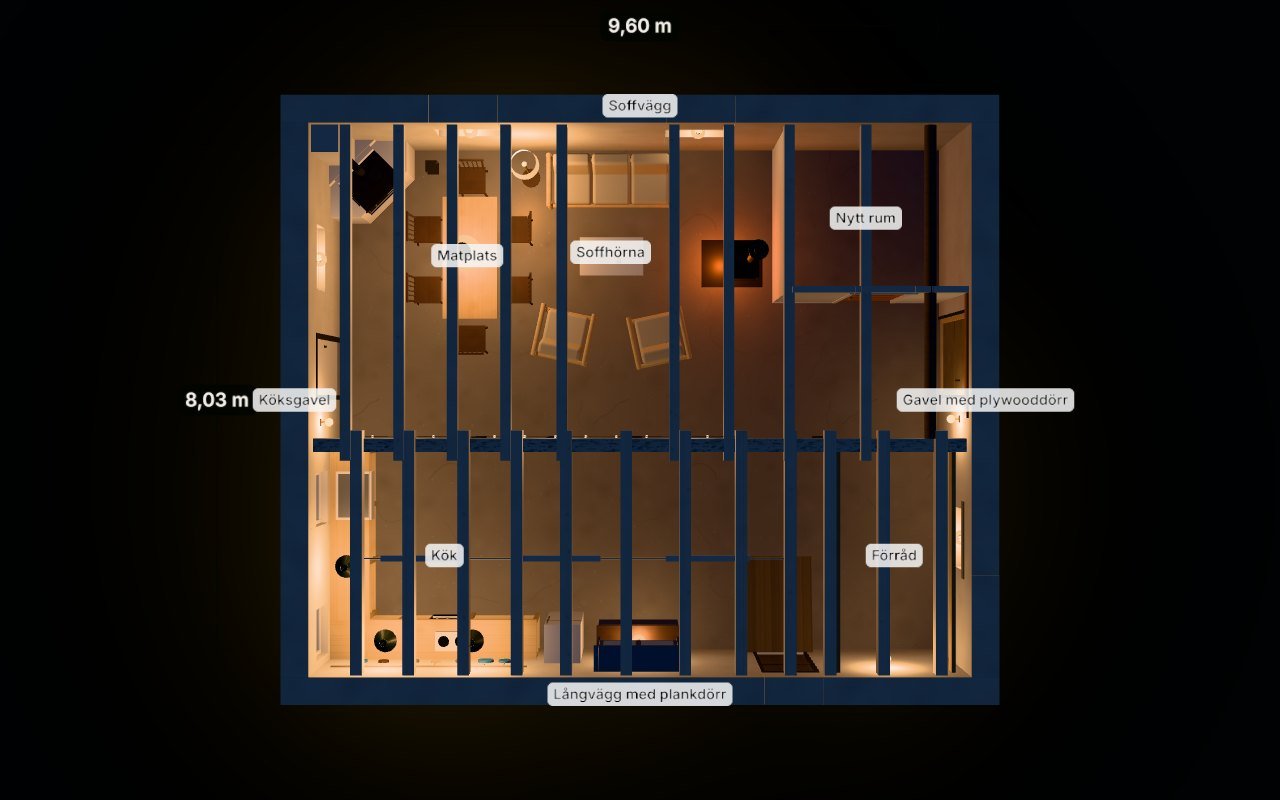
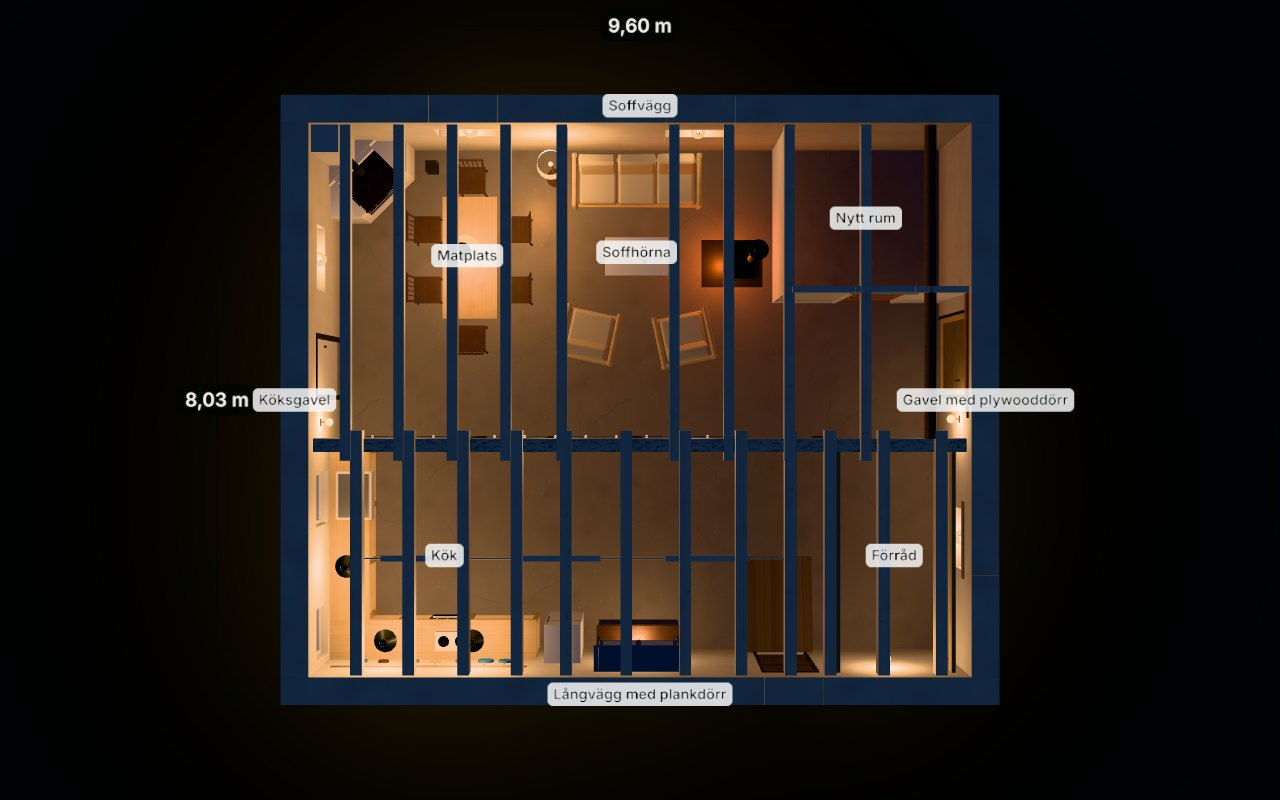
Flytta soffgruppen närmare braskaminen
Soffa, soffbord, fåtöljer och golvlampa står 0,4 m närmare nya rummet.

Claude-Session: https://claude.ai/code/session_01Pv6CpKizXL3M9PiPypFNnz

Changed region(s): [[0.4062, 0.1562, 0.5625, 0.3438], [0.4062, 0.375, 0.5625, 0.4688]]

diff --git a/stallet/src/dimensions.ts b/stallet/src/dimensions.ts
@@ -156,11 +156,11 @@ export const furniture = {
   dining: { x: 2.15, z: 1.8, turn: 90, tableLength: 1.9, tableWidth: 0.85 },
 
   /** Soffa mot soffväggen, soffbord och två fåtöljer vända mot soffan. */
-  sofa: { x: 4.35, z: 0.55, turn: 0, width: 2.05 },
-  coffeeTable: { x: 4.35, z: 1.75, turn: 0 },
+  sofa: { x: 4.75, z: 0.55, turn: 0, width: 2.05 },
+  coffeeTable: { x: 4.75, z: 1.75, turn: 0 },
   armchairs: [
-    { x: 3.6, z: 3.0, turn: 168 },
-    { x: 5.1, z: 3.05, turn: 192 },
+    { x: 4.0, z: 3.0, turn: 168 },
+    { x: 5.5, z: 3.05, turn: 192 },
   ],
 
   /** Köket: öppen bänk i vinkel i hörnet köksgavel / långvägg, sedan kyl och blått vitrinskåp. */
@@ -237,7 +237,7 @@ export const lighting = {
     { x: 2.3, z: room.width - 0.42, bottom: 1.72, shade: 'enamel' as const, watts: 40 },
   ],
   /** Golvlampa vid soffans ena gavel. */
-  floorLamps: [{ x: 3.05, z: 0.45, watts: 40 }],
+  floorLamps: [{ x: 3.45, z: 0.45, watts: 40 }],
   /** Små lampor i fönsternischerna – en per fönster i soff- och matdelen. */
   windowLamps: ['S1', 'S2', 'A3', 'B1'],
   /** Bordslampa på vitrinskåpets bänkskiva. */
